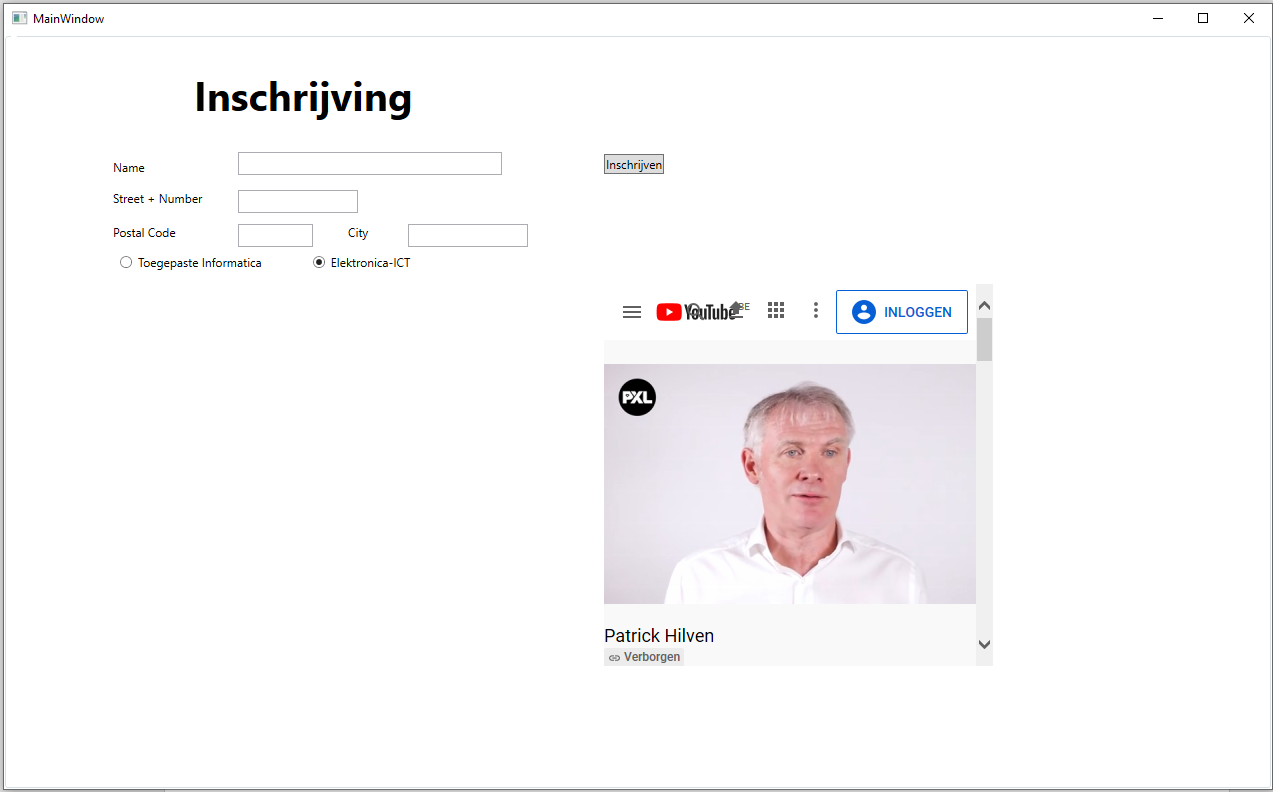
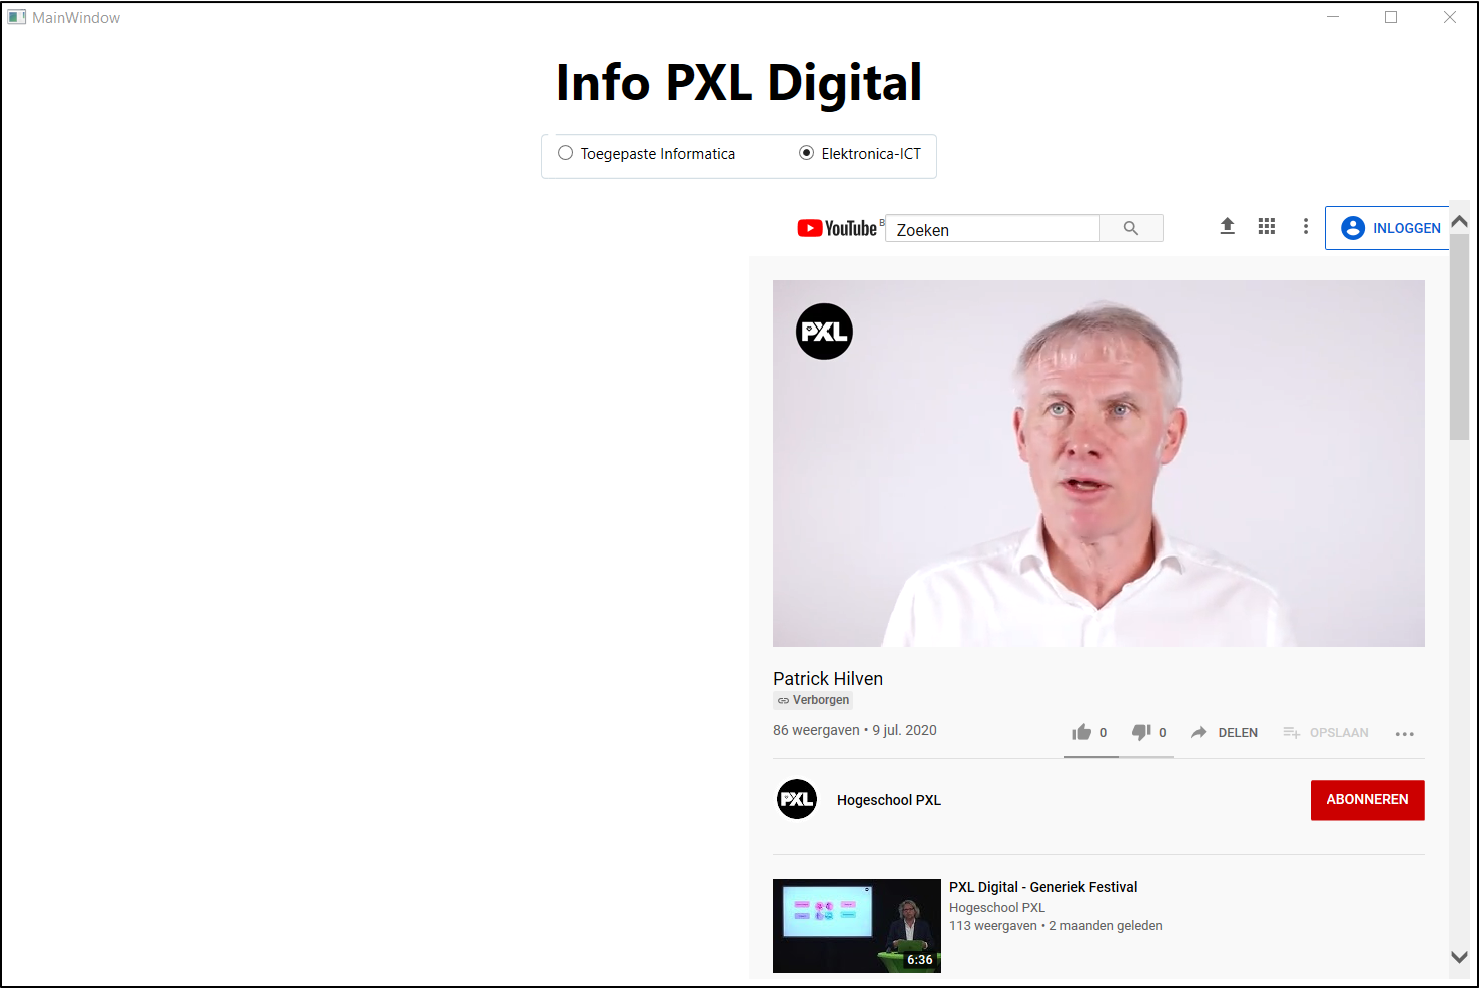
Review exercise 4 of chapter 4 (Data Binding)

diff --git a/Chapter4_WPF_Databinding/Exercise4/MainWindow.xaml b/Chapter4_WPF_Databinding/Exercise4/MainWindow.xaml
@@ -6,28 +6,30 @@
         xmlns:local="clr-namespace:Exercise4"
         xmlns:conv="clr-namespace:Exercise4.Converters"
         mc:Ignorable="d"
-        Title="MainWindow" Height="794.327" Width="1284.433" >
+        Title="MainWindow" Height="800" Width="1200" >
     <Grid>
-        <TextBlock HorizontalAlignment="Left" Margin="190,34,0,0" TextWrapping="Wrap" Text="Inschrijving" VerticalAlignment="Top" FontWeight="Bold" FontSize="40"/>
-
-        <Button Content="Inschrijven" HorizontalAlignment="Left" VerticalAlignment="Top" Margin="600,120,0,0" />
-        <TextBlock HorizontalAlignment="Left" Margin="109,125,0,0" TextWrapping="Wrap" Text="Name" VerticalAlignment="Top"/>
-        <TextBox x:Name="NameTextBox" HorizontalAlignment="Left" Height="23" Margin="234,118,0,0" TextWrapping="Wrap" VerticalAlignment="Top" Width="264"/>
-        <TextBlock HorizontalAlignment="Left" Margin="109,156,0,0" TextWrapping="Wrap" Text="Street + Number" VerticalAlignment="Top"/>
-        <TextBox x:Name="StreetTextBox" HorizontalAlignment="Left" Height="23" Margin="234,156,0,0" TextWrapping="Wrap" VerticalAlignment="Top" Width="120"/>
-        <TextBlock HorizontalAlignment="Left" Margin="109,190,0,0" TextWrapping="Wrap" Text="Postal Code" VerticalAlignment="Top"/>
-        <TextBox x:Name="PostalCodeTextBox" HorizontalAlignment="Left" Height="23" Margin="234,190,0,0" TextWrapping="Wrap" VerticalAlignment="Top" Width="75" />
-        <TextBlock HorizontalAlignment="Left" Margin="344,190,0,0" TextWrapping="Wrap" Text="City" VerticalAlignment="Top"/>
-        <TextBox x:Name="CityTextBox" HorizontalAlignment="Left" Height="23" Margin="404,190,0,0" TextWrapping="Wrap" VerticalAlignment="Top" Width="120"/>
-
-        <GroupBox>
-            <StackPanel Orientation="Horizontal" Margin="109,220,0,0" HorizontalAlignment="Left" VerticalAlignment="Top">
-                <RadioButton x:Name="itRadio" GroupName="Digital" IsChecked="True" Content="Toegepaste Informatica" />
-                <RadioButton x:Name="eaRadio" GroupName="Digital" IsChecked="False" Margin="50,0,0,0" Content="Elektronica-ICT" />
+        <Grid.ColumnDefinitions>
+            <ColumnDefinition></ColumnDefinition>
+            <ColumnDefinition></ColumnDefinition>
+        </Grid.ColumnDefinitions>
+        <Grid.RowDefinitions>
+            <RowDefinition Height="Auto"></RowDefinition>
+            <RowDefinition Height="Auto"></RowDefinition>
+            <RowDefinition></RowDefinition>
+        </Grid.RowDefinitions>
+        <TextBlock Grid.ColumnSpan="2" HorizontalAlignment="Center" Text="Info PXL Digital" VerticalAlignment="Center" Margin="8"
+                   FontWeight="Bold" FontSize="40"/>
+        <GroupBox Grid.Row="1" Grid.ColumnSpan="2" Padding="8" Margin="8" HorizontalAlignment="Center" VerticalAlignment="Center">
+            <StackPanel Orientation="Horizontal">
+                <RadioButton x:Name="itRadioButton" GroupName="Digital" IsChecked="True" Content="Toegepaste Informatica" />
+                <RadioButton x:Name="electronicsRadioButton" GroupName="Digital" IsChecked="False" Margin="50,0,0,0" Content="Elektronica-ICT" />
             </StackPanel>
         </GroupBox>
-        
-        <WebBrowser x:Name="PXLITWebBrowser" HorizontalAlignment="Left" Height="382" Margin="24,250,0,0" VerticalAlignment="Top" Width="390" />
-        <WebBrowser x:Name="PXLEAWebBrowser" HorizontalAlignment="Left" Height="382" Margin="600,250,0,0" VerticalAlignment="Top" Width="390" />
+        <WebBrowser Grid.Row="2" Grid.Column="0" x:Name="ItWebBrowser" 
+                    HorizontalAlignment="Center" VerticalAlignment="Top" Margin="8" 
+                    IsVisibleChanged="ItWebBrowser_IsVisibleChanged" />
+        <WebBrowser Grid.Row="2" Grid.Column="1" x:Name="ElectronicsWebBrowser" 
+                    HorizontalAlignment="Center" VerticalAlignment="Top" Margin="8" 
+                    IsVisibleChanged="ElectronicsWebBrowser_IsVisibleChanged" />
     </Grid>
 </Window>

diff --git a/Chapter4_WPF_Databinding/Exercise4.Tests/MainWindowTests.cs b/Chapter4_WPF_Databinding/Exercise4.Tests/MainWindowTests.cs
@@ -6,30 +6,33 @@ using NUnit.Framework;
 using System.Collections.Generic;
 using System.Linq;
 using System.Threading;
+using System.Windows;
 using System.Windows.Controls;
 using System.Windows.Data;
+using Exercise4.Converters;
 
 namespace Exercise4.Tests
 {
-    [ExerciseTestFixture("dotnet2", "H04", "Exercise04", @"Exercise4\MainWindow.xaml;Exercise4\MainWindow.xaml.cs;")]
-    [TestFixture]
+    [ExerciseTestFixture("dotnet2", "H04", "Exercise04", 
+        @"Exercise4\MainWindow.xaml;Exercise4\Converters\Boolean2VisibilityConverter.cs;")]
     [Apartment(ApartmentState.STA)]
     public class MainWindowTests
     {
         private TestWindow<MainWindow> _window;
-        private IList<WebBrowser> _webBrowsers;
-        private WebBrowser _itBrowser, _eaBrowser;
-        private IList<RadioButton> _radioButtons;
+        private WebBrowser _itBrowser, _electronicsBrowser;
+        private RadioButton _itRadioButton;
+        private RadioButton _electronicsRadioButton;
 
         [SetUp]
         public void Setup()
         {
             _window = new TestWindow<MainWindow>();
-            _webBrowsers = _window.GetUIElements<WebBrowser>();
-            _itBrowser = _webBrowsers[0];
-            _eaBrowser = _webBrowsers[1];
-            _radioButtons = _window.GetUIElements<RadioButton>();
-
+            IList<WebBrowser> webBrowsers = _window.GetUIElements<WebBrowser>();
+            _itBrowser = webBrowsers[0];
+            _electronicsBrowser = webBrowsers[1];
+            IList<RadioButton> radioButtons = _window.GetUIElements<RadioButton>();
+            _itRadioButton = radioButtons[0];
+            _electronicsRadioButton = radioButtons[1];
         }
 
         [TearDown]
@@ -43,119 +46,84 @@ namespace Exercise4.Tests
         {
             var codeBehindFilePath = @"Exercise4\MainWindow.xaml.cs";
             var fileHash = Solution.Current.GetFileHash(codeBehindFilePath);
-            Assert.That(fileHash, Is.EqualTo("7A-42-80-16-38-CF-5A-F2-0E-75-3B-ED-0F-8D-AB-E9"),
-                () =>
-                    $"The file '{codeBehindFilePath}' has changed. " +
-                    "Undo your changes on the file to make this test pass. " +
-                    "This exercise can be completed by purely working with XAML.");
-        }      
-
-        [MonitoredTest("Should have a BooleanToVisibilityConverter in Window resources"), Order(2)]
-        public void _02_ShouldHaveABooleanToVisibilityConverterInWindowResources()
-        {
-            var booleanToVisibilityConverter = _window.Window.Resources.Values.OfType<Exercise4.Converters.BooleanToVisibilityConverter>().FirstOrDefault();
-            Assert.That(booleanToVisibilityConverter, Is.Not.Null, () => "The window should contain exactly one resource of type 'BooleanToVisibilityConverter'.");
+            Assert.That(fileHash, Is.EqualTo("B0-50-0E-F1-C1-41-40-4C-76-D5-30-7F-AC-48-CD-B6"),
+                $"The file '{codeBehindFilePath}' has changed. " +
+                "Undo your changes on the file to make this test pass. " +
+                "This exercise can be completed by purely working with XAML.");
         }
 
-        [MonitoredTest("Should use the BooleanToVisibilityConverter in the binding of the Webbrowsers"), Order(3)]
-        public void _03_ShouldUseBooleanToVisibilityConverterInBindingOfTheWebBrowsers()
+        [MonitoredTest("Should have a Boolean2VisibilityConverter in Window resources"), Order(2)]
+        public void _02_ShouldHaveABoolean2VisibilityConverterInWindowResources()
         {
-            var iTconverter = AssertUsesBooleanToVisibilityConvertInTheBindingAndGetTheConverter(_itBrowser);
-            Assert.That(iTconverter, Is.TypeOf<Exercise4.Converters.BooleanToVisibilityConverter>(),
-                () => "The IT WebBrowser should use the BooleanToVisibilityConverter in its binding statement.");
-            var eAconverter = AssertUsesBooleanToVisibilityConvertInTheBindingAndGetTheConverter(_eaBrowser);
-            Assert.That(eAconverter, Is.TypeOf<Exercise4.Converters.BooleanToVisibilityConverter>(),
-                () => "The EA WebBrowser should use the BooleanToVisibilityConverter in its binding statement.");
-        }        
-
-        [MonitoredTest("Should use ConverterParameter in the binding of the WebBrowsers"), Order(4)]
-        public void _04_ShouldUseConverterParameterInBindingOfTheWebBrowsers()
-        {
-            var iTconverterParameter = AssertUsesBooleanToVisibilityConvertInTheBindingAndGetTheConverterParameter(_itBrowser);
-            Assert.That(iTconverterParameter, Is.EqualTo("Visible|Hidden"),
-                () => "The IT WebBrowser should use the BooleanToVisibilityConverter in its binding statement with a ConvertParameter.");
-            var eAconverterParameter = AssertUsesBooleanToVisibilityConvertInTheBindingAndGetTheConverterParameter(_eaBrowser);
-            Assert.That(eAconverterParameter, Is.EqualTo("Visible|Hidden"),
-                () => "The EA WebBrowser should use the BooleanToVisibilityConverter in its binding statement with a ConvertParameter.");
+            var booleanToVisibilityConverter = _window.Window.Resources.Values.OfType<Boolean2VisibilityConverter>().FirstOrDefault();
+            Assert.That(booleanToVisibilityConverter, Is.Not.Null, () => "The window should contain exactly one resource of type 'Boolean2VisibilityConverter'.");
         }
 
-        [MonitoredTest("Should use ConverterParameter in the binding of the WebBrowsers"), Order(5)]
-        public void _05_ShouldUseElementNameInTheBindingOfTheWebBrowsers()
+        [MonitoredTest("WebBrowsers visibility should bind to RadioButtons Checked property"), Order(3)]
+        public void _03_WebBrowsersVisibilityShouldBindToRadioButtonsCheckedProperty()
         {
-            var itElementName = AssertUsesBooleanElementNameInTheBindingAndGetTheElementName(_itBrowser);
-            Assert.That(itElementName, Is.EqualTo("itRadio"),
-                () => "The IT WebBrowser should use the 'itRadio' ElementName in its binding statement with a ConvertParameter.");
-            var eAconverterParameter = AssertUsesBooleanElementNameInTheBindingAndGetTheElementName(_eaBrowser);
-            Assert.That(eAconverterParameter, Is.EqualTo("eaRadio"),
-                () => "The EA WebBrowser should use the 'eaRadio' ElementName in its binding statement with a ConvertParameter.");
+            AssertBindsToRadioButton(_itBrowser, _itRadioButton, "IT WebBrowser");
+            AssertBindsToRadioButton(_electronicsBrowser, _electronicsRadioButton, "Electronics WebBrowser");
         }
 
-        [MonitoredTest("Should use Path in the binding of the WebBrowsers"), Order(6)]
-        public void _06_ShouldUsePathInTheBindingOfTheWebBrowsers()
+        [MonitoredTest("Should use the converter in the binding of the WebBrowsers"), Order(4)]
+        public void _04_ShouldUseTheConverterInBindingOfTheWebBrowsers()
         {
-            var itPath = AssertUsesPathInTheBindingAndGetThePath(_itBrowser);
-            Assert.That(itPath, Is.EqualTo("IsChecked"),
-                () => "The IT WebBrowser should use the 'IsChecked' Path in its binding statement with a ConvertParameter.");
-            var eaPath = AssertUsesPathInTheBindingAndGetThePath(_eaBrowser);
-            Assert.That(eaPath, Is.EqualTo("IsChecked"),
-                () => "The EA WebBrowser should use the 'IsChecked' Path in its binding statement with a ConvertParameter.");
+            AssertUsesBooleanToVisibilityConverter(_itBrowser, "IT WebBrowser");
+            AssertUsesBooleanToVisibilityConverter(_electronicsBrowser, "Electronics WebBrowser");
         }
 
-        [MonitoredTest("Should rate down when DownButton is clicked"), Order(7)]
-        public void _07_ShouldHideItBrowserAndShowEaBrowserWhenEaRadioButtonIsClicked()
+        [MonitoredTest("Should toggle WebBrowsers visibility when a RadioButton is clicked"), Order(5)]
+        public void _05_ShouldToggleWebBrowsersVisibilityWhenARadioButtonIsClicked()
         {
-            RadioButton itRadio = _radioButtons.FirstOrDefault(r => r.Name == "itRadio");
-            RadioButton eaRadio = _radioButtons.FirstOrDefault(r => r.Name == "eaRadio");
-           
-            itRadio.IsChecked = true;
-           
-            Assert.That(_itBrowser.Visibility, Is.EqualTo(System.Windows.Visibility.Visible),
-                () => "The IT Web Browser Should be visible when you click the IT Radio Button");
-            Assert.That(_eaBrowser.Visibility, Is.EqualTo(System.Windows.Visibility.Hidden),
-                () => "The EA Web Browser Should be hidden when you click the IT Radio Button");
+            _itRadioButton.IsChecked = true;
 
-            eaRadio.IsChecked = true;
+            Assert.That(_itBrowser.Visibility, Is.EqualTo(Visibility.Visible),
+                "The IT WebBrowser Should be visible when you click the IT RadioButton");
+            Assert.That(_electronicsBrowser.Visibility, Is.EqualTo(Visibility.Hidden),
+                "The Electronics WebBrowser should be hidden when you click the IT RadioButton");
 
-            Assert.That(_itBrowser.Visibility, Is.EqualTo(System.Windows.Visibility.Hidden),
-                () => "The IT Web Browser Should be hidden when you click the EA Radio Button");
-            Assert.That(_eaBrowser.Visibility, Is.EqualTo(System.Windows.Visibility.Visible),
-                () => "The EA Web Browser Should be visible when you click the EA Radio Button");
+            _electronicsRadioButton.IsChecked = true;
+
+            Assert.That(_itBrowser.Visibility, Is.EqualTo(Visibility.Hidden),
+                "The IT WebBrowser should be hidden when you click the Electronics RadioButton");
+            Assert.That(_electronicsBrowser.Visibility, Is.EqualTo(Visibility.Visible),
+                "The Electronics WebBrowser should be visible when you click the Electronics RadioButton");
         }
 
-        private object AssertUsesPathInTheBindingAndGetThePath(WebBrowser browser)
+        private static BindingExpression GetAndAssertVisibilityBinding(WebBrowser browser, string browserName)
         {
-            BindingExpression visibilityBinding = browser.GetBindingExpression(WebBrowser.VisibilityProperty);
-            Assert.That(visibilityBinding, Is.Not.Null, () => "No binding found for the IT WebBrowser.");
-            Assert.That(visibilityBinding.ParentBinding.Path.Path, Is.Not.Null,
-                                () => "The WebBrowsers should use the Path in its binding statement.");
-            return visibilityBinding.ParentBinding.Path.Path;
+            BindingExpression visibilityBinding = browser.GetBindingExpression(UIElement.VisibilityProperty);
+            Assert.That(visibilityBinding, Is.Not.Null, $"No binding found for the 'Visibility' property of '{browserName}'.");
+            return visibilityBinding;
         }
 
-        private object AssertUsesBooleanElementNameInTheBindingAndGetTheElementName(WebBrowser browser)
+        private void AssertBindsToRadioButton(WebBrowser browser, RadioButton radioButton, string browserName)
         {
-            BindingExpression visibilityBinding = browser.GetBindingExpression(WebBrowser.VisibilityProperty);
-            Assert.That(visibilityBinding, Is.Not.Null, () => "No binding found for the IT WebBrowser.");
-            Assert.That(visibilityBinding.ParentBinding.ElementName, Is.Not.Null,
-                                () => "The WebBrowsers should use the ElementName in its binding statement.");
-            return visibilityBinding.ParentBinding.ElementName;
+            BindingExpression visibilityBinding = GetAndAssertVisibilityBinding(browser, browserName);
+
+            //ElementName
+            string elementName = visibilityBinding.ParentBinding.ElementName;
+            Assert.That(elementName, Is.Not.Null.Or.Empty,
+                $"The {browserName} should use an 'ElementName' in its binding statement.");
+
+            Assert.That(elementName, Is.EqualTo(radioButton.Name),
+                $"The {browserName} should use '{radioButton.Name}' as data source.");
+
+            //Path
+            string path = visibilityBinding.ParentBinding.Path.Path;
+            Assert.That(path, Is.EqualTo("IsChecked"),
+                $"The {browserName} should use the 'IsChecked' property of the data source (RadioButton) in its binding statement.");
+
         }
 
-        private object AssertUsesBooleanToVisibilityConvertInTheBindingAndGetTheConverter(WebBrowser browser)
+        private void AssertUsesBooleanToVisibilityConverter(WebBrowser browser, string browserName)
         {
-            BindingExpression visibilityBinding = browser.GetBindingExpression(WebBrowser.VisibilityProperty);
-            Assert.That(visibilityBinding, Is.Not.Null, () => "No binding found for the IT WebBrowser.");
+            BindingExpression visibilityBinding = GetAndAssertVisibilityBinding(browser, browserName);
             Assert.That(visibilityBinding.ParentBinding.Converter, Is.Not.Null,
-                () => "The WebBrowsers should use the BooleanToVisibilityConverter in its binding statement.");
-            return visibilityBinding.ParentBinding.Converter;
-        }    
-
-        private object AssertUsesBooleanToVisibilityConvertInTheBindingAndGetTheConverterParameter(WebBrowser browser)
-        {
-            BindingExpression visibilityBinding = browser.GetBindingExpression(WebBrowser.VisibilityProperty);
-            Assert.That(visibilityBinding, Is.Not.Null, () => "No binding found for the EA WebBrowser.");
-            Assert.That(visibilityBinding.ParentBinding.ConverterParameter, Is.Not.Null,
-                () => "The IT WebBrowser should use the BooleanToVisibilityConverter in its binding statement and use a ConverterParameter.");
-            return visibilityBinding.ParentBinding.ConverterParameter;
-        }        
+                 $"The {browserName} should use the BooleanToVisibilityConverter in its binding statement.");
+            Assert.That(visibilityBinding.ParentBinding.Converter, Is.TypeOf<Boolean2VisibilityConverter>(),
+                $"The {browserName} should use the BooleanToVisibilityConverter in its binding statement.");
+        }
     }
 }

diff --git a/Chapter4_WPF_Databinding/Exercise4/MainWindow.xaml.cs b/Chapter4_WPF_Databinding/Exercise4/MainWindow.xaml.cs
@@ -1,23 +1,8 @@
 using System;
-using System.Collections.Generic;
-using System.Linq;
-using System.Text;
-using System.Threading.Tasks;
 using System.Windows;
-using System.Windows.Controls;
-using System.Windows.Data;
-using System.Windows.Documents;
-using System.Windows.Input;
-using System.Windows.Media;
-using System.Windows.Media.Imaging;
-using System.Windows.Navigation;
-using System.Windows.Shapes;
 
 namespace Exercise4
 {
-    /// <summary>
-    /// Interaction logic for MainWindow.xaml
-    /// </summary>
     public partial class MainWindow : Window
     {
         public MainWindow()
@@ -25,32 +10,18 @@ namespace Exercise4
             InitializeComponent();
         }
 
-        private void PXLITWebBrowser_IsVisibleChanged(object sender, DependencyPropertyChangedEventArgs e)
+        private void ItWebBrowser_IsVisibleChanged(object sender, DependencyPropertyChangedEventArgs e)
         {
-            if(PXLITWebBrowser.Source is null)
-            {
-                PXLITWebBrowser.Source = new Uri("https://youtu.be/pScCoUb3BNY");
-            }
-            else
-            {
-                PXLITWebBrowser.Source = null;
-            }
+            ItWebBrowser.Source = ItWebBrowser.Visibility == Visibility.Visible
+                ? new Uri("https://youtu.be/pScCoUb3BNY")
+                : null;
         }
 
-        private void PXLEAWebBrowser_IsVisibleChanged(object sender, DependencyPropertyChangedEventArgs e)
+        private void ElectronicsWebBrowser_IsVisibleChanged(object sender, DependencyPropertyChangedEventArgs e)
         {
-            if (PXLEAWebBrowser.Source is null)
-            {
-                PXLEAWebBrowser.Source = new Uri("https://youtu.be/siywmpNvZNU");
-            }
-            else
-            {
-                PXLEAWebBrowser.Source = null;
-            }
+            ElectronicsWebBrowser.Source = ElectronicsWebBrowser.Visibility == Visibility.Visible
+                ? new Uri("https://youtu.be/siywmpNvZNU")
+                : null;
         }
-        
-
-
- 
     }
 }

diff --git a/Chapter4_WPF_Databinding/Exercise4/Converters/BooleanToVisibilityConverter.cs b/Chapter4_WPF_Databinding/Exercise4/Converters/BooleanToVisibilityConverter.cs
@@ -1,16 +1,12 @@
 using System;
-using System.Collections.Generic;
 using System.Globalization;
-using System.Linq;
-using System.Text;
-using System.Threading.Tasks;
 using System.Windows;
 using System.Windows.Data;
 
 namespace Exercise4.Converters
 {
-    public class BooleanToVisibilityConverter
+    public class Boolean2VisibilityConverter
     {
+
     }
 }
-

diff --git a/Chapter4_WPF_Databinding/README.md b/Chapter4_WPF_Databinding/README.md
@@ -53,19 +53,17 @@ Zorg er ook voor dat het scherm een scrollbar toont als de inhoud een grotere ho
 
 ## Exercise 4
 Don't change the code of het mainWindow.xaml.cs file.
-The UI (XAML) of this exercise is partially given. You have to add the bindings of the Webbrowser controls. 
-In the left WebBrowser control, Tristan Fransen will give information about 'Toegepaste Informatica' in a Youtube video. In the WebBrowser control at the right, Patrick Hilven will talk about Elektronica-ICT.
-When you click the 'Toegepaste informatica' radio button, the Webbrowser at the left will be visible, otherwise, the Webbrowser at the right (Elektronica-ICT) will appear and the IT WebBrowser will disapear.
+The UI (XAML) of this exercise is partially given. You have to add the bindings of the *WebBrowser* controls. 
+In the left *WebBrowser* control, Tristan Fransen will give information about 'Toegepaste Informatica' in a Youtube video. 
+In the *WebBrowse*r control at the right, Patrick Hilven will talk about Elektronica-ICT.
+When you click the 'Toegepaste informatica' radio button, the *WebBrowser* at the left will be visible, otherwise, the WebBrowser at the right (Elektronica-ICT) will appear and the IT WebBrowser will disapear.
 
 ![Main Window](images/MainWindow_exercise4_IT.png)
 
 ![Main Window](images/MainWindow_exercise4_EA.png)
 
 Use a converter to do this. The name of the converter should give you enough information to know what code you have to write.
-The converter will need to work in 2 directions.
-The (empty) converter class 'BooleanToVisibility' is already present in the code  ("Converters\BooleanToVisibilityConvert.cs");
-
-You have to use a ConverterParameter to pass the possible values for the visibility property to the Converter, divided by a  |, so ConverterParameter=Visible|Hidden.
+The (empty) converter class *Boolean2VisibilityConverter* is already present in the code  (*Converters\Boolean2VisibilityConvert.cs*);
 
 
 
